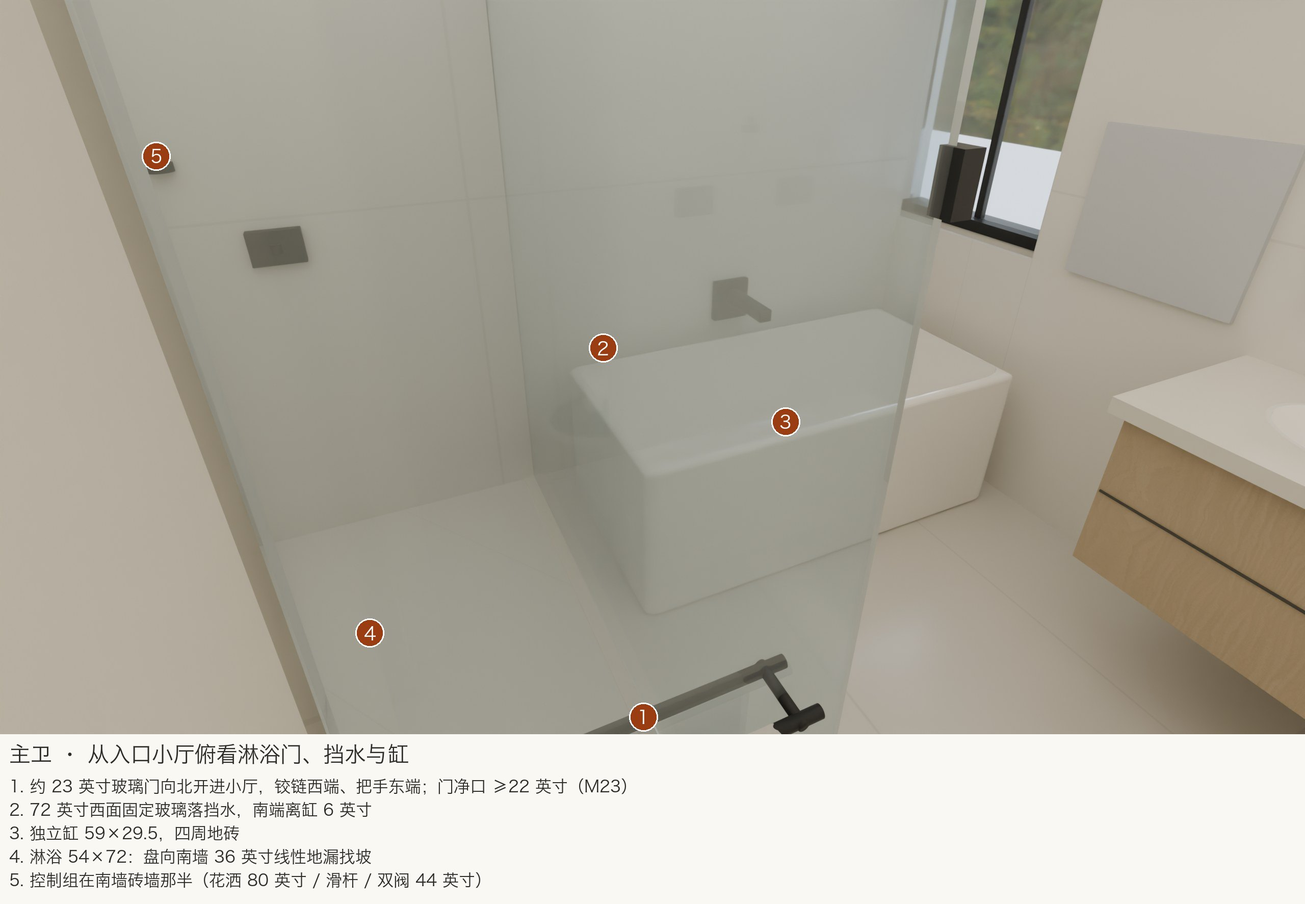
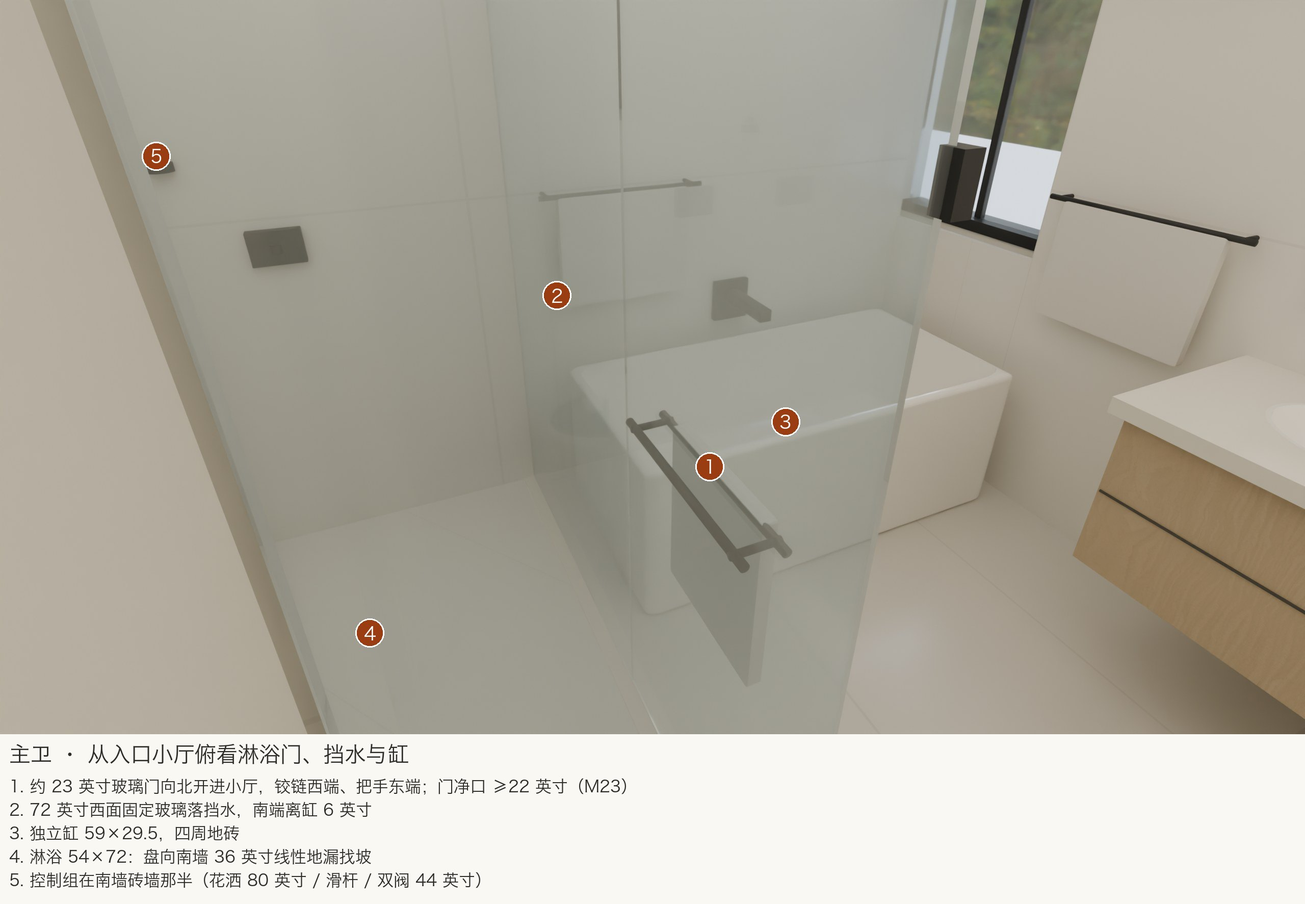
Crew UAT: primary shower door moves to the west face; towel bars replace rings in Bath2/3/4; Bath3 exit view added

diff --git a/UAT.html b/UAT.html
@@ -119,9 +119,9 @@ li.own,span.own{color:#6b5d3a}li.own::marker{color:#c9b48a}
 <h3 id="s9">9 · 主卫</h3>
 <div class="fig plan"><figure><img src="uat/zone-10.jpg" alt=""><figcaption><b>主卫 · 平面</b> — 本区位置与各房间名称；细节看效果图。</figcaption></figure></div>
 
-<div class="fig three"><figure><img src="uat/B1-overall-anno.jpg" alt=""><figcaption><b>主卫 · 整体（入口门看，带玻璃，带标识）</b> — 左：西墙 60" 悬挂双盆柜 + 54×36 细黑框镜（44–80"）+ 36" 灯条坐镜顶；正前：独立缸 59×29.5 摆在窗下、四周地砖、南墙壁出长臂龙头；右：54×72 玻璃盒淋浴，北面 30" 砖墙 + 约 23" 玻璃门向北开，西面 72" 整片固定玻璃落 2" 挡水，顶 80"；缸与玻璃之间 6"。</figcaption></figure><figure><img src="uat/B1-inside-anno.jpg" alt=""><figcaption><b>主卫 · 淋浴内部（去玻璃，带标识）</b> — 南墙砖墙那半一组：固定花洒 + 滑杆一条竖线（x≈9'5½"），双阀 44" 对称夹两侧；东墙只有一条 48×12 长龛（底 48" 顶 60"，无搁板）；2" 石英低挡水、地砖连铺进盘；36" 线性地漏贴南墙；左：独立缸离墙。</figcaption></figure><figure><img src="uat/B1-mirror.jpg" alt=""><figcaption><b>盆柜与镜（向西看，带标识）</b> — 60" 白橡悬挂双盆柜（底 15"）；暖白石英台；54×36 细黑框镜居中、底 44" 顶 80"（西墙整面砖）；36" 哑黑灯条坐镜顶；盆上天窗封填。</figcaption></figure></div>
+<div class="fig three"><figure><img src="uat/B1-overall-anno.jpg" alt=""><figcaption><b>主卫 · 整体（入口门看，带玻璃，带标识）</b> — 左：西墙 60" 悬挂双盆柜 + 54×36 细黑框镜（44–80"）+ 36" 灯条坐镜顶；正前：独立缸 59×29.5 摆在窗下、四周地砖、南墙壁出长臂龙头；右：54×72 玻璃盒淋浴，北面 30" 砖墙 + 约 23" 玻璃门向北开，西面 72" 整片固定玻璃落 2" 挡水，顶 80"；缸与玻璃之间 6"。</figcaption></figure><figure><img src="uat/B1-inside-anno.jpg" alt=""><figcaption><b>主卫 · 淋浴内部（去玻璃，从西门位向南看，带标识）</b> — 南墙砖墙那半一组：固定花洒 + 滑杆一条竖线（x≈9'5½"），双阀 44" 对称夹两侧；东墙只有一条 48×12 长龛（底 48" 顶 60"，无搁板）；2" 石英低挡水、地砖连铺进盘；36" 线性地漏贴南墙；左：独立缸离墙。</figcaption></figure><figure><img src="uat/B1-mirror.jpg" alt=""><figcaption><b>盆柜与镜（向西看，带标识）</b> — 60" 白橡悬挂双盆柜（底 15"）；暖白石英台；54×36 细黑框镜居中、底 44" 顶 80"（西墙整面砖）；36" 哑黑灯条坐镜顶；盆上天窗封填。</figcaption></figure></div>
 
-<div class="fig three"><figure><img src="uat/B1-junction.jpg" alt=""><figcaption><b>缸 · 留白 · 玻璃盒（盆柜上方俯看）</b> — 独立缸 59×29.5 离西墙 5"、离南墙 4"；缸到西玻璃中线 6"、可见地砖 4"；72" 西玻璃整片落 2" 挡水、无缺口；玻璃门在北面；缸四周零胶缝。</figcaption></figure><figure><img src="uat/B1-junction2.jpg" alt=""><figcaption><b>入口小厅俯看淋浴门与挡水</b> — 门线 2" 石英挡水、约 23" 玻璃门向北开（18" 毛巾杆式把手，外侧挂淋浴毛巾）、西玻璃 72"；独立缸在左、四周地砖。</figcaption></figure><figure><img src="uat/B1-wc.jpg" alt=""><figcaption><b>马桶间（门口向西看）</b> — 智能马桶靠西墙面朝东；四面全高全高浴室级 PT-01；哑黑纸架 26"；筒灯 1（感应）+ 独立排风。</figcaption></figure></div>
+<div class="fig three"><figure><img src="uat/B1-junction.jpg" alt=""><figcaption><b>缸 · 留白 · 玻璃盒（盆柜上方俯看）</b> — 独立缸 59×29.5 离西墙 5"、离南墙 4"；缸到西玻璃中线 6"、可见地砖 4"；72" 西玻璃整片落 2" 挡水、无缺口；玻璃门在西面北段向西开；缸四周零胶缝。</figcaption></figure><figure><img src="uat/B1-junction2.jpg" alt=""><figcaption><b>入口小厅俯看淋浴门与挡水</b> — 门线 2" 石英挡水、约 23" 玻璃门向北开（18" 毛巾杆式把手，外侧挂淋浴毛巾）、西玻璃 72"；独立缸在左、四周地砖。</figcaption></figure><figure><img src="uat/B1-wc.jpg" alt=""><figcaption><b>马桶间（门口向西看）</b> — 智能马桶靠西墙面朝东；四面全高全高浴室级 PT-01；哑黑纸架 26"；筒灯 1（感应）+ 独立排风。</figcaption></figure></div>
 
 
 <div class="fig wide"><figure><img src="uat/tile-B1.jpg" alt=""><figcaption><b>主卫 · 四面墙贴砖范围（室内视角展开）</b> — 蓝灰 = 24×48 暖白砖到顶，米色 = 全高浴室级 PT-01：南墙、西墙、淋浴东墙、淋浴北面 30" 墙整面到顶；北墙（马桶间墙）与入口门墙为干区墙面；红字为各墙物件位置与高度。</figcaption></figure></div>
@@ -136,11 +136,11 @@ li.own,span.own{color:#6b5d3a}li.own::marker{color:#c9b48a}
 <h3 id="s10">10 · Bath2 · Bath3</h3>
 <div class="fig plan"><figure><img src="uat/zone-11.jpg" alt=""><figcaption><b>Bath2 · Bath3 · 平面</b> — 本区位置与各房间名称；细节看效果图。</figcaption></figure></div>
 
-<div class="fig three"><figure><img src="uat/B2-overall.jpg" alt=""><figcaption><b>Bath2 · 整体（西南角看，带玻璃）</b> — 右前：东北角 48×40 淋浴、半无框哑黑推拉门；右：智能坐便；门北墙；砖只在淋浴到顶，干区 PT-01。</figcaption></figure><figure><img src="uat/B2-inside.jpg" alt=""><figcaption><b>Bath2 · 淋浴内部（去玻璃）</b> — 东墙（共墙）双阀 44"、手持滑杆、顶部固定花洒；玻璃线以南东墙 24" 毛巾杆 48"（出淋浴左手）；北墙中跨 24×28 龛底 34" 顶 62"、搁板落 48" 缝；Andover 地砖连铺；2" 低挡水石英盖板。</figcaption></figure><figure><img src="uat/B2-vanity-shower.jpg" alt=""><figcaption><b>Bath2 盆柜（门口向南看，带玻璃）</b> — 48" 白橡单盆柜；盆 + 30×36 镜（44–80"）向西偏置避开南窗；24" 哑黑灯条坐镜顶；右：48×40 淋浴半无框推拉门、砖到顶。</figcaption></figure></div>
+<div class="fig three"><figure><img src="uat/B2-overall.jpg" alt=""><figcaption><b>Bath2 · 整体（西南角看，带玻璃）</b> — 右前：东北角 48×40 淋浴、半无框哑黑推拉门；右：智能坐便；门北墙；砖只在淋浴到顶，干区 PT-01。</figcaption></figure><figure><img src="uat/B2-inside.jpg" alt=""><figcaption><b>Bath2 · 淋浴内部（去玻璃）</b> — 东墙（共墙）双阀 44"、手持滑杆、顶部固定花洒；玻璃线以南东墙 24" 毛巾杆 48"（出淋浴左手）；北墙中跨 24×28 龛底 34" 顶 62"、搁板落 48" 缝；Andover 地砖连铺；2" 低挡水石英盖板。</figcaption></figure><figure><img src="uat/B2-vanity-shower.jpg" alt=""><figcaption><b>Bath2 盆柜（门口向南看，带玻璃）</b> — 48" 白橡单盆柜；盆 + 30×36 镜（44–80"）向西偏置避开南窗；24" 哑黑灯条坐镜顶；右：西墙 24" 洗脸毛巾杆 48"；左：48×40 淋浴半无框推拉门、砖到顶。</figcaption></figure></div>
 
 <div class="fig wide"><figure><img src="uat/tile-B2.jpg" alt=""><figcaption><b>Bath2 · 四面墙贴砖范围</b> — 淋浴 48×40 在东北角：北墙东段 50" + 共墙北段 40" 砖到顶，其余三面全高浴室级 PT-01；龛 24×28 在北墙砖段。</figcaption></figure></div>
 
-<div class="fig three"><figure><img src="uat/B3-overall.jpg" alt=""><figcaption><b>Bath3 · 整体（东墙门口向西南看，带玻璃）</b> — 右：34×60 南北长淋浴贴共墙、玻璃面朝东、60" 半无框推拉门，北墙玻璃线以东 24" 毛巾杆 48"；正前：马桶贴共墙面朝东；左手：东墙 48" 单盆柜 + 30×36 镜 + 灯条；门洞按建筑图 B7。</figcaption></figure><figure><img src="uat/B3-inside.jpg" alt=""><figcaption><b>Bath3 · 淋浴内部（去玻璃）</b> — 北墙一条竖线：固定花洒 80"、滑杆、双阀 44"；共墙 24×28 龛 + 石英搁板；盘 34×60 南北长。</figcaption></figure><figure><img src="uat/B3-vanity-shower.jpg" alt=""><figcaption><b>Bath3 盆柜（门内向东南看）</b> — 48" 白橡悬挂单盆柜在东墙门洞以南，盆柜全幅入镜；30×36 细黑框镜挂 44–80" + 24" 哑黑灯条坐镜顶；右：南墙既有磨砂窗；左：门洞外走廊。</figcaption></figure></div>
+<div class="fig three"><figure><img src="uat/B3-overall.jpg" alt=""><figcaption><b>Bath3 · 整体（东墙门口向西南看，带玻璃）</b> — 右：34×60 南北长淋浴贴共墙、玻璃面朝东、60" 半无框推拉门，北墙玻璃线以东 24" 毛巾杆 48"；正前：马桶贴共墙面朝东；左手：东墙 48" 单盆柜 + 30×36 镜 + 灯条；门洞按建筑图 B7。</figcaption></figure><figure><img src="uat/B3-inside.jpg" alt=""><figcaption><b>Bath3 · 淋浴内部（去玻璃）</b> — 北墙一条竖线：固定花洒 80"、滑杆、双阀 44"；共墙 24×28 龛 + 石英搁板；盘 34×60 南北长。</figcaption></figure><figure><img src="uat/B3-vanity-shower.jpg" alt=""><figcaption><b>Bath3 盆柜（门内向东南看）</b> — 48" 白橡悬挂单盆柜在东墙门洞以南，盆柜全幅入镜；30×36 细黑框镜挂 44–80" + 24" 哑黑灯条坐镜顶；右：南墙既有磨砂窗 + 窗东侧 24" 洗脸毛巾杆 48"；左：门洞外走廊。</figcaption></figure><figure><img src="uat/B3-exit.jpg" alt=""><figcaption><b>Bath3 · 出淋浴看北墙（西南角向东北看，带玻璃）</b> — 推拉门活动扇在北端、正对东墙房门；出门面朝东，左手北墙 24" 浴巾杆 48"；右：东墙盆柜。</figcaption></figure></div>
 
 <div class="fig wide"><figure><img src="uat/tile-B3.jpg" alt=""><figcaption><b>Bath3 · 四面墙贴砖范围</b> — 淋浴 34×60 贴共墙：共墙 60" 段 + 北墙 34" 段砖到顶，南端返墙朝淋浴一面贴砖，其余全高浴室级 PT-01；龛 24×28 在共墙砖段。</figcaption></figure></div>
 
@@ -152,7 +152,7 @@ li.own,span.own{color:#6b5d3a}li.own::marker{color:#c9b48a}
 <h3 id="s11">11 · Bath4</h3>
 <div class="fig plan"><figure><img src="uat/zone-12.jpg" alt=""><figcaption><b>Bath4 · 平面</b> — 本区位置与各房间名称；细节看效果图。</figcaption></figure></div>
 
-<div class="fig three"><figure><img src="uat/B4-overall.jpg" alt=""><figcaption><b>Bath4 · 整体（从盆柜角向北看，带移门）</b> — 北端 60×30 缸三面砖到顶，8mm 无框玻璃移门 + 哑黑顶轨 80"（活动扇东端，外侧自带毛巾杆 48"）；右下：东墙门南侧浴巾环 + 盆柜上方洗脸环，同高 50"；透过玻璃：北长墙西端 Kerdi 12×20 预制龛，东端墙固定花洒 / 阀 44" / 缸出水嘴；右：东墙房门。</figcaption></figure><figure><img src="uat/B4-inside-anno.jpg" alt=""><figcaption><b>Bath4 · 缸区内部（去移门，从盆柜侧向北看，带标识）</b> — 北长墙西端 Kerdi 12×20 预制龛（底 28½" 顶 48½"，龛底石英）；东端墙自上而下：固定花洒、阀 44"、缸出水嘴；缸排水东端。</figcaption></figure><figure><img src="uat/B4-vanity.jpg" alt=""><figcaption><b>Bath4 盆柜与马桶（从缸端向南看，去移门）</b> — 盆柜与马桶并排靴南墙、都面朝浴缸：东端 24" 白橡悬挂单盆柜（柜底 15"）+ 24×36 细黑框镜（44–80"）+ 24" 哑黑灯条坐镜顶；马桶在盆柜西侧，中心距西墙 17"、距盆柜 17½"；纸架在西墙砖面、马桶左手、卷心在马桶前沿前约 8"、26"；左上：西墙窗；右：东墙房门（内开，90° 限位）。</figcaption></figure></div>
+<div class="fig three"><figure><img src="uat/B4-overall.jpg" alt=""><figcaption><b>Bath4 · 整体（从盆柜角向北看，带移门）</b> — 北端 60×30 缸三面砖到顶，8mm 无框玻璃移门 + 哑黑顶轨 80"（活动扇东端，外侧自带毛巾杆 48"）；右下：东墙 24" 毛巾杆 50"（浴巾 + 洗脸毛巾）；透过玻璃：北长墙西端 Kerdi 12×20 预制龛，东端墙固定花洒 / 阀 44" / 缸出水嘴；右：东墙房门。</figcaption></figure><figure><img src="uat/B4-inside-anno.jpg" alt=""><figcaption><b>Bath4 · 缸区内部（去移门，从盆柜侧向北看，带标识）</b> — 北长墙西端 Kerdi 12×20 预制龛（底 28½" 顶 48½"，龛底石英）；东端墙自上而下：固定花洒、阀 44"、缸出水嘴；缸排水东端。</figcaption></figure><figure><img src="uat/B4-vanity.jpg" alt=""><figcaption><b>Bath4 盆柜与马桶（从缸端向南看，去移门）</b> — 盆柜与马桶并排靴南墙、都面朝浴缸：东端 24" 白橡悬挂单盆柜（柜底 15"）+ 24×36 细黑框镜（44–80"）+ 24" 哑黑灯条坐镜顶；马桶在盆柜西侧，中心距西墙 17"、距盆柜 17½"；纸架在西墙砖面、马桶左手、卷心在马桶前沿前约 8"、26"；左上：西墙窗；右：东墙房门（内开，90° 限位）。</figcaption></figure></div>
 
 <div class="fig wide"><figure><img src="uat/tile-B4.jpg" alt=""><figcaption><b>Bath4 · 四面墙贴砖范围</b> — 缸区三面（北长墙 61" 整面 + 东、西端墙各 29" 到移门面）砖到顶，其余全高浴室级 PT-01；Kerdi 预制龛在北长墙西端。</figcaption></figure></div>
 

diff --git a/index.html b/index.html
@@ -119,9 +119,9 @@ li.own,span.own{color:#6b5d3a}li.own::marker{color:#c9b48a}
 <h3 id="s9">9 · 主卫</h3>
 <div class="fig plan"><figure><img src="uat/zone-10.jpg" alt=""><figcaption><b>主卫 · 平面</b> — 本区位置与各房间名称；细节看效果图。</figcaption></figure></div>
 
-<div class="fig three"><figure><img src="uat/B1-overall-anno.jpg" alt=""><figcaption><b>主卫 · 整体（入口门看，带玻璃，带标识）</b> — 左：西墙 60" 悬挂双盆柜 + 54×36 细黑框镜（44–80"）+ 36" 灯条坐镜顶；正前：独立缸 59×29.5 摆在窗下、四周地砖、南墙壁出长臂龙头；右：54×72 玻璃盒淋浴，北面 30" 砖墙 + 约 23" 玻璃门向北开，西面 72" 整片固定玻璃落 2" 挡水，顶 80"；缸与玻璃之间 6"。</figcaption></figure><figure><img src="uat/B1-inside-anno.jpg" alt=""><figcaption><b>主卫 · 淋浴内部（去玻璃，带标识）</b> — 南墙砖墙那半一组：固定花洒 + 滑杆一条竖线（x≈9'5½"），双阀 44" 对称夹两侧；东墙只有一条 48×12 长龛（底 48" 顶 60"，无搁板）；2" 石英低挡水、地砖连铺进盘；36" 线性地漏贴南墙；左：独立缸离墙。</figcaption></figure><figure><img src="uat/B1-mirror.jpg" alt=""><figcaption><b>盆柜与镜（向西看，带标识）</b> — 60" 白橡悬挂双盆柜（底 15"）；暖白石英台；54×36 细黑框镜居中、底 44" 顶 80"（西墙整面砖）；36" 哑黑灯条坐镜顶；盆上天窗封填。</figcaption></figure></div>
+<div class="fig three"><figure><img src="uat/B1-overall-anno.jpg" alt=""><figcaption><b>主卫 · 整体（入口门看，带玻璃，带标识）</b> — 左：西墙 60" 悬挂双盆柜 + 54×36 细黑框镜（44–80"）+ 36" 灯条坐镜顶；正前：独立缸 59×29.5 摆在窗下、四周地砖、南墙壁出长臂龙头；右：54×72 玻璃盒淋浴，北面 30" 砖墙 + 约 23" 玻璃门向北开，西面 72" 整片固定玻璃落 2" 挡水，顶 80"；缸与玻璃之间 6"。</figcaption></figure><figure><img src="uat/B1-inside-anno.jpg" alt=""><figcaption><b>主卫 · 淋浴内部（去玻璃，从西门位向南看，带标识）</b> — 南墙砖墙那半一组：固定花洒 + 滑杆一条竖线（x≈9'5½"），双阀 44" 对称夹两侧；东墙只有一条 48×12 长龛（底 48" 顶 60"，无搁板）；2" 石英低挡水、地砖连铺进盘；36" 线性地漏贴南墙；左：独立缸离墙。</figcaption></figure><figure><img src="uat/B1-mirror.jpg" alt=""><figcaption><b>盆柜与镜（向西看，带标识）</b> — 60" 白橡悬挂双盆柜（底 15"）；暖白石英台；54×36 细黑框镜居中、底 44" 顶 80"（西墙整面砖）；36" 哑黑灯条坐镜顶；盆上天窗封填。</figcaption></figure></div>
 
-<div class="fig three"><figure><img src="uat/B1-junction.jpg" alt=""><figcaption><b>缸 · 留白 · 玻璃盒（盆柜上方俯看）</b> — 独立缸 59×29.5 离西墙 5"、离南墙 4"；缸到西玻璃中线 6"、可见地砖 4"；72" 西玻璃整片落 2" 挡水、无缺口；玻璃门在北面；缸四周零胶缝。</figcaption></figure><figure><img src="uat/B1-junction2.jpg" alt=""><figcaption><b>入口小厅俯看淋浴门与挡水</b> — 门线 2" 石英挡水、约 23" 玻璃门向北开（18" 毛巾杆式把手，外侧挂淋浴毛巾）、西玻璃 72"；独立缸在左、四周地砖。</figcaption></figure><figure><img src="uat/B1-wc.jpg" alt=""><figcaption><b>马桶间（门口向西看）</b> — 智能马桶靠西墙面朝东；四面全高全高浴室级 PT-01；哑黑纸架 26"；筒灯 1（感应）+ 独立排风。</figcaption></figure></div>
+<div class="fig three"><figure><img src="uat/B1-junction.jpg" alt=""><figcaption><b>缸 · 留白 · 玻璃盒（盆柜上方俯看）</b> — 独立缸 59×29.5 离西墙 5"、离南墙 4"；缸到西玻璃中线 6"、可见地砖 4"；72" 西玻璃整片落 2" 挡水、无缺口；玻璃门在西面北段向西开；缸四周零胶缝。</figcaption></figure><figure><img src="uat/B1-junction2.jpg" alt=""><figcaption><b>入口小厅俯看淋浴门与挡水</b> — 门线 2" 石英挡水、约 23" 玻璃门向北开（18" 毛巾杆式把手，外侧挂淋浴毛巾）、西玻璃 72"；独立缸在左、四周地砖。</figcaption></figure><figure><img src="uat/B1-wc.jpg" alt=""><figcaption><b>马桶间（门口向西看）</b> — 智能马桶靠西墙面朝东；四面全高全高浴室级 PT-01；哑黑纸架 26"；筒灯 1（感应）+ 独立排风。</figcaption></figure></div>
 
 
 <div class="fig wide"><figure><img src="uat/tile-B1.jpg" alt=""><figcaption><b>主卫 · 四面墙贴砖范围（室内视角展开）</b> — 蓝灰 = 24×48 暖白砖到顶，米色 = 全高浴室级 PT-01：南墙、西墙、淋浴东墙、淋浴北面 30" 墙整面到顶；北墙（马桶间墙）与入口门墙为干区墙面；红字为各墙物件位置与高度。</figcaption></figure></div>
@@ -136,11 +136,11 @@ li.own,span.own{color:#6b5d3a}li.own::marker{color:#c9b48a}
 <h3 id="s10">10 · Bath2 · Bath3</h3>
 <div class="fig plan"><figure><img src="uat/zone-11.jpg" alt=""><figcaption><b>Bath2 · Bath3 · 平面</b> — 本区位置与各房间名称；细节看效果图。</figcaption></figure></div>
 
-<div class="fig three"><figure><img src="uat/B2-overall.jpg" alt=""><figcaption><b>Bath2 · 整体（西南角看，带玻璃）</b> — 右前：东北角 48×40 淋浴、半无框哑黑推拉门；右：智能坐便；门北墙；砖只在淋浴到顶，干区 PT-01。</figcaption></figure><figure><img src="uat/B2-inside.jpg" alt=""><figcaption><b>Bath2 · 淋浴内部（去玻璃）</b> — 东墙（共墙）双阀 44"、手持滑杆、顶部固定花洒；玻璃线以南东墙 24" 毛巾杆 48"（出淋浴左手）；北墙中跨 24×28 龛底 34" 顶 62"、搁板落 48" 缝；Andover 地砖连铺；2" 低挡水石英盖板。</figcaption></figure><figure><img src="uat/B2-vanity-shower.jpg" alt=""><figcaption><b>Bath2 盆柜（门口向南看，带玻璃）</b> — 48" 白橡单盆柜；盆 + 30×36 镜（44–80"）向西偏置避开南窗；24" 哑黑灯条坐镜顶；右：48×40 淋浴半无框推拉门、砖到顶。</figcaption></figure></div>
+<div class="fig three"><figure><img src="uat/B2-overall.jpg" alt=""><figcaption><b>Bath2 · 整体（西南角看，带玻璃）</b> — 右前：东北角 48×40 淋浴、半无框哑黑推拉门；右：智能坐便；门北墙；砖只在淋浴到顶，干区 PT-01。</figcaption></figure><figure><img src="uat/B2-inside.jpg" alt=""><figcaption><b>Bath2 · 淋浴内部（去玻璃）</b> — 东墙（共墙）双阀 44"、手持滑杆、顶部固定花洒；玻璃线以南东墙 24" 毛巾杆 48"（出淋浴左手）；北墙中跨 24×28 龛底 34" 顶 62"、搁板落 48" 缝；Andover 地砖连铺；2" 低挡水石英盖板。</figcaption></figure><figure><img src="uat/B2-vanity-shower.jpg" alt=""><figcaption><b>Bath2 盆柜（门口向南看，带玻璃）</b> — 48" 白橡单盆柜；盆 + 30×36 镜（44–80"）向西偏置避开南窗；24" 哑黑灯条坐镜顶；右：西墙 24" 洗脸毛巾杆 48"；左：48×40 淋浴半无框推拉门、砖到顶。</figcaption></figure></div>
 
 <div class="fig wide"><figure><img src="uat/tile-B2.jpg" alt=""><figcaption><b>Bath2 · 四面墙贴砖范围</b> — 淋浴 48×40 在东北角：北墙东段 50" + 共墙北段 40" 砖到顶，其余三面全高浴室级 PT-01；龛 24×28 在北墙砖段。</figcaption></figure></div>
 
-<div class="fig three"><figure><img src="uat/B3-overall.jpg" alt=""><figcaption><b>Bath3 · 整体（东墙门口向西南看，带玻璃）</b> — 右：34×60 南北长淋浴贴共墙、玻璃面朝东、60" 半无框推拉门，北墙玻璃线以东 24" 毛巾杆 48"；正前：马桶贴共墙面朝东；左手：东墙 48" 单盆柜 + 30×36 镜 + 灯条；门洞按建筑图 B7。</figcaption></figure><figure><img src="uat/B3-inside.jpg" alt=""><figcaption><b>Bath3 · 淋浴内部（去玻璃）</b> — 北墙一条竖线：固定花洒 80"、滑杆、双阀 44"；共墙 24×28 龛 + 石英搁板；盘 34×60 南北长。</figcaption></figure><figure><img src="uat/B3-vanity-shower.jpg" alt=""><figcaption><b>Bath3 盆柜（门内向东南看）</b> — 48" 白橡悬挂单盆柜在东墙门洞以南，盆柜全幅入镜；30×36 细黑框镜挂 44–80" + 24" 哑黑灯条坐镜顶；右：南墙既有磨砂窗；左：门洞外走廊。</figcaption></figure></div>
+<div class="fig three"><figure><img src="uat/B3-overall.jpg" alt=""><figcaption><b>Bath3 · 整体（东墙门口向西南看，带玻璃）</b> — 右：34×60 南北长淋浴贴共墙、玻璃面朝东、60" 半无框推拉门，北墙玻璃线以东 24" 毛巾杆 48"；正前：马桶贴共墙面朝东；左手：东墙 48" 单盆柜 + 30×36 镜 + 灯条；门洞按建筑图 B7。</figcaption></figure><figure><img src="uat/B3-inside.jpg" alt=""><figcaption><b>Bath3 · 淋浴内部（去玻璃）</b> — 北墙一条竖线：固定花洒 80"、滑杆、双阀 44"；共墙 24×28 龛 + 石英搁板；盘 34×60 南北长。</figcaption></figure><figure><img src="uat/B3-vanity-shower.jpg" alt=""><figcaption><b>Bath3 盆柜（门内向东南看）</b> — 48" 白橡悬挂单盆柜在东墙门洞以南，盆柜全幅入镜；30×36 细黑框镜挂 44–80" + 24" 哑黑灯条坐镜顶；右：南墙既有磨砂窗 + 窗东侧 24" 洗脸毛巾杆 48"；左：门洞外走廊。</figcaption></figure><figure><img src="uat/B3-exit.jpg" alt=""><figcaption><b>Bath3 · 出淋浴看北墙（西南角向东北看，带玻璃）</b> — 推拉门活动扇在北端、正对东墙房门；出门面朝东，左手北墙 24" 浴巾杆 48"；右：东墙盆柜。</figcaption></figure></div>
 
 <div class="fig wide"><figure><img src="uat/tile-B3.jpg" alt=""><figcaption><b>Bath3 · 四面墙贴砖范围</b> — 淋浴 34×60 贴共墙：共墙 60" 段 + 北墙 34" 段砖到顶，南端返墙朝淋浴一面贴砖，其余全高浴室级 PT-01；龛 24×28 在共墙砖段。</figcaption></figure></div>
 
@@ -152,7 +152,7 @@ li.own,span.own{color:#6b5d3a}li.own::marker{color:#c9b48a}
 <h3 id="s11">11 · Bath4</h3>
 <div class="fig plan"><figure><img src="uat/zone-12.jpg" alt=""><figcaption><b>Bath4 · 平面</b> — 本区位置与各房间名称；细节看效果图。</figcaption></figure></div>
 
-<div class="fig three"><figure><img src="uat/B4-overall.jpg" alt=""><figcaption><b>Bath4 · 整体（从盆柜角向北看，带移门）</b> — 北端 60×30 缸三面砖到顶，8mm 无框玻璃移门 + 哑黑顶轨 80"（活动扇东端，外侧自带毛巾杆 48"）；右下：东墙门南侧浴巾环 + 盆柜上方洗脸环，同高 50"；透过玻璃：北长墙西端 Kerdi 12×20 预制龛，东端墙固定花洒 / 阀 44" / 缸出水嘴；右：东墙房门。</figcaption></figure><figure><img src="uat/B4-inside-anno.jpg" alt=""><figcaption><b>Bath4 · 缸区内部（去移门，从盆柜侧向北看，带标识）</b> — 北长墙西端 Kerdi 12×20 预制龛（底 28½" 顶 48½"，龛底石英）；东端墙自上而下：固定花洒、阀 44"、缸出水嘴；缸排水东端。</figcaption></figure><figure><img src="uat/B4-vanity.jpg" alt=""><figcaption><b>Bath4 盆柜与马桶（从缸端向南看，去移门）</b> — 盆柜与马桶并排靴南墙、都面朝浴缸：东端 24" 白橡悬挂单盆柜（柜底 15"）+ 24×36 细黑框镜（44–80"）+ 24" 哑黑灯条坐镜顶；马桶在盆柜西侧，中心距西墙 17"、距盆柜 17½"；纸架在西墙砖面、马桶左手、卷心在马桶前沿前约 8"、26"；左上：西墙窗；右：东墙房门（内开，90° 限位）。</figcaption></figure></div>
+<div class="fig three"><figure><img src="uat/B4-overall.jpg" alt=""><figcaption><b>Bath4 · 整体（从盆柜角向北看，带移门）</b> — 北端 60×30 缸三面砖到顶，8mm 无框玻璃移门 + 哑黑顶轨 80"（活动扇东端，外侧自带毛巾杆 48"）；右下：东墙 24" 毛巾杆 50"（浴巾 + 洗脸毛巾）；透过玻璃：北长墙西端 Kerdi 12×20 预制龛，东端墙固定花洒 / 阀 44" / 缸出水嘴；右：东墙房门。</figcaption></figure><figure><img src="uat/B4-inside-anno.jpg" alt=""><figcaption><b>Bath4 · 缸区内部（去移门，从盆柜侧向北看，带标识）</b> — 北长墙西端 Kerdi 12×20 预制龛（底 28½" 顶 48½"，龛底石英）；东端墙自上而下：固定花洒、阀 44"、缸出水嘴；缸排水东端。</figcaption></figure><figure><img src="uat/B4-vanity.jpg" alt=""><figcaption><b>Bath4 盆柜与马桶（从缸端向南看，去移门）</b> — 盆柜与马桶并排靴南墙、都面朝浴缸：东端 24" 白橡悬挂单盆柜（柜底 15"）+ 24×36 细黑框镜（44–80"）+ 24" 哑黑灯条坐镜顶；马桶在盆柜西侧，中心距西墙 17"、距盆柜 17½"；纸架在西墙砖面、马桶左手、卷心在马桶前沿前约 8"、26"；左上：西墙窗；右：东墙房门（内开，90° 限位）。</figcaption></figure></div>
 
 <div class="fig wide"><figure><img src="uat/tile-B4.jpg" alt=""><figcaption><b>Bath4 · 四面墙贴砖范围</b> — 缸区三面（北长墙 61" 整面 + 东、西端墙各 29" 到移门面）砖到顶，其余全高浴室级 PT-01；Kerdi 预制龛在北长墙西端。</figcaption></figure></div>
 
